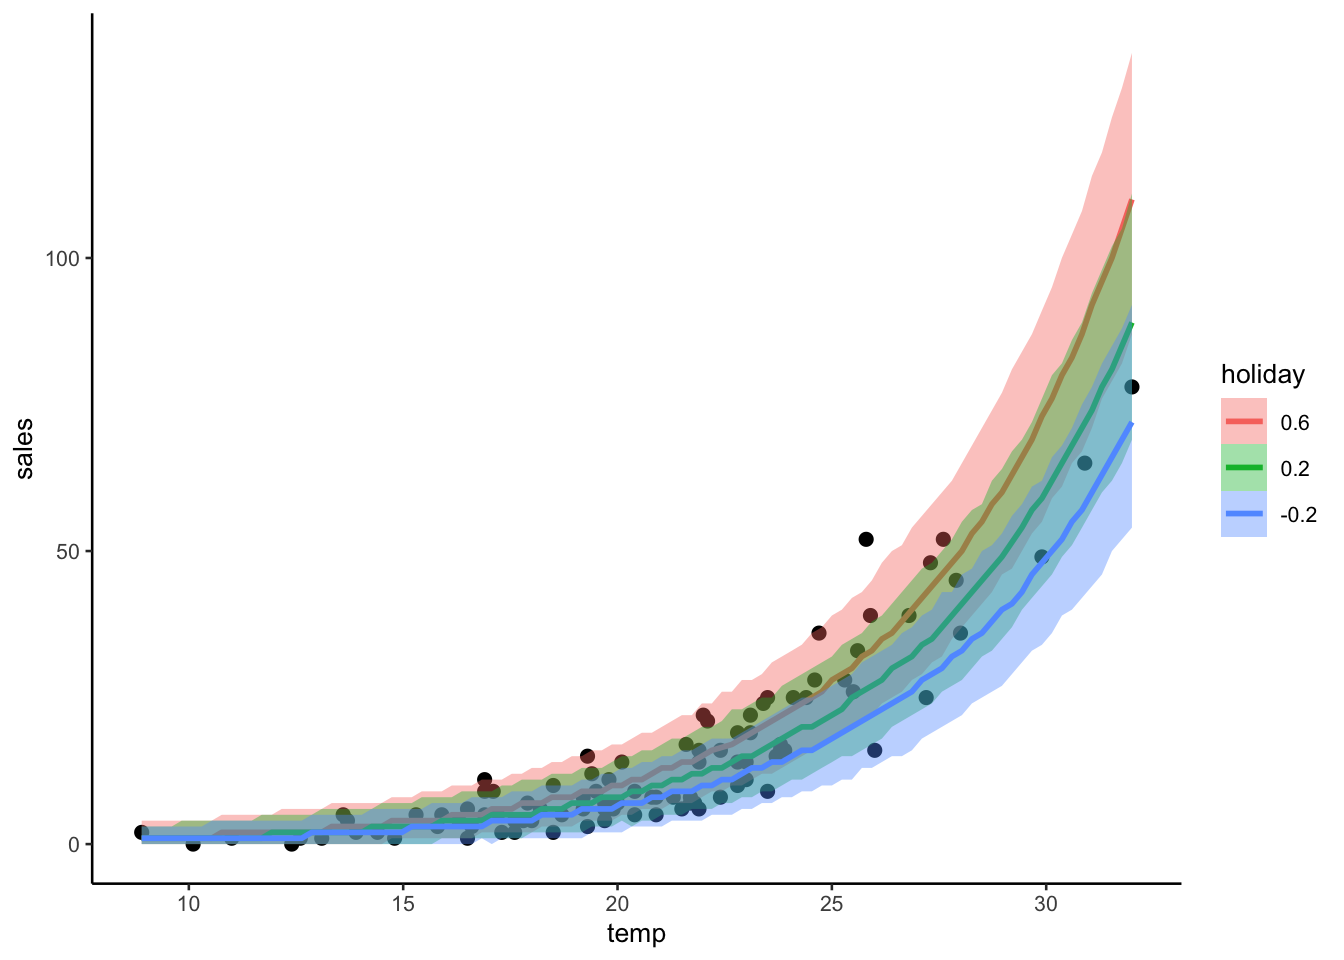
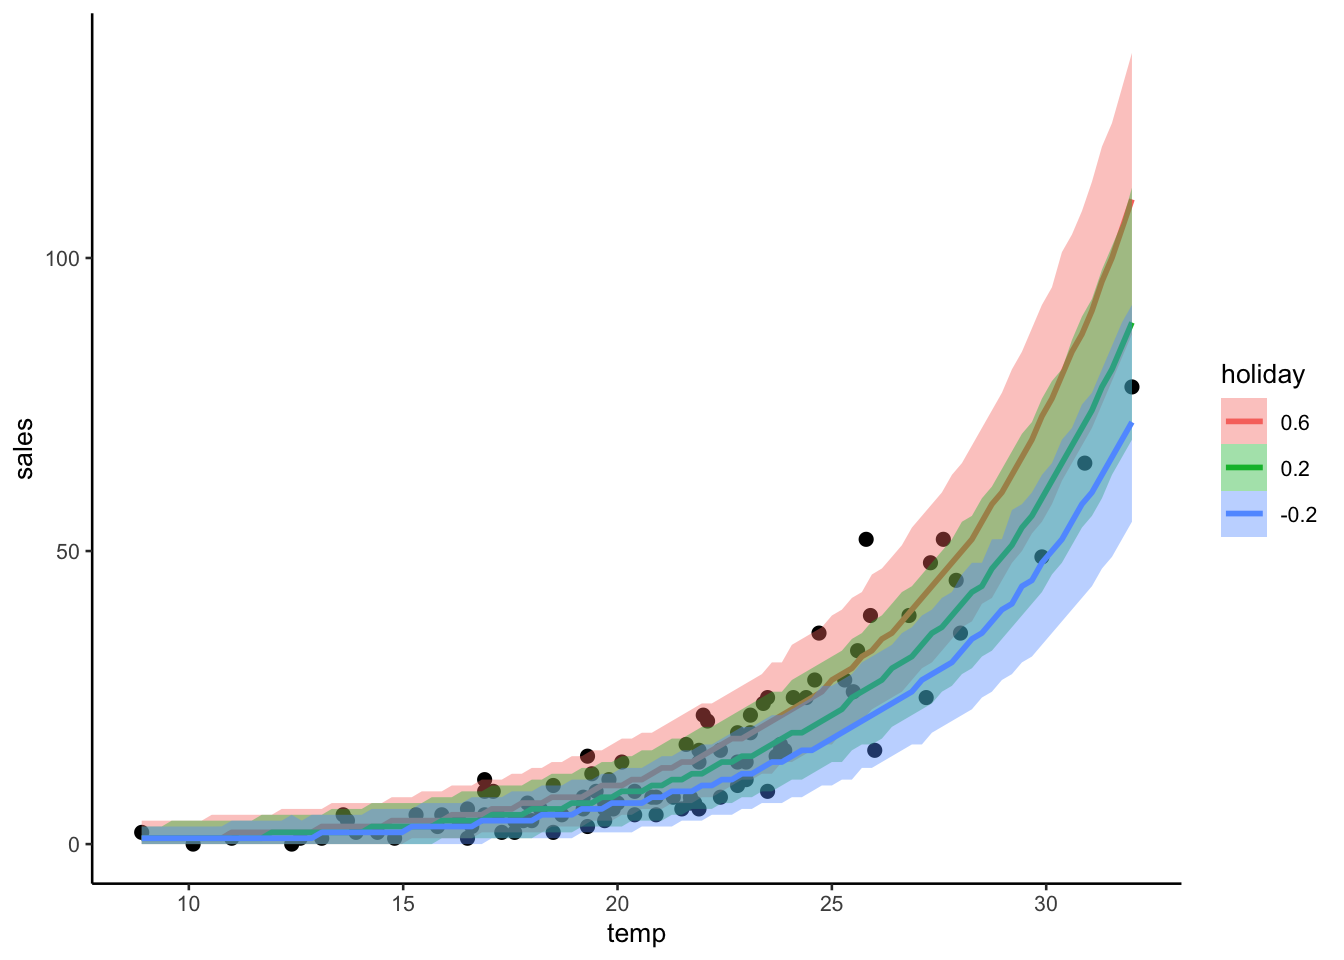
modified

diff --git a/content/post/2022-05-29-poisson-linear-model-with-brms/index.html b/content/post/2022-05-29-poisson-linear-model-with-brms/index.html
@@ -52,16 +52,16 @@ options(mc.cores=parallel::detectCores())</code></pre>
 </thead>
 <tbody>
 <tr class="odd">
-<td>Normal Linear Model</td>
-<td><span class="math inline">\(\mu_n=\beta_0+\beta_1x_{n1}+\cdots +\beta_{M}x_{nM}\)</span> <br /><span class="math inline">\(p(y_n | \beta,\sigma) \sim Normal(y_n|\mu_n,\sigma^2)\)</span><br /></td>
+<td>Poisson Linear Model</td>
+<td><span class="math inline">\(\lambda_n=exp(\beta_0+\beta_1x_{n1}+\cdots +\beta_{M}x_{nM})\)</span> <br /><span class="math inline">\(p(y_n | \beta,\sigma) \sim Poiss(y_n|\lambda_n)\)</span><br /></td>
 </tr>
 <tr class="even">
 <td>This Model</td>
-<td><span class="math inline">\(\mu_n=\beta_0+\beta_1Age_n+\beta_2Qual_n\)</span> <br /><span class="math inline">\(p(Income_n | \beta,\sigma) \sim Normal(Income_n | \mu_n,\sigma^2)\)</span><br /></td>
+<td><span class="math inline">\(\lambda_n=\beta_0+\beta_1Temp_n+\beta_2Holiday_n\)</span> <br /><span class="math inline">\(p(Sales_n | \beta) \sim Poiss(Sales_n | \lambda_n)\)</span><br /></td>
 </tr>
 <tr class="odd">
 <td>Simulation</td>
-<td><span class="math inline">\(\mu_n=300+10Age_n+200Qual_n\)</span> <br /><span class="math inline">\(Income_n \sim Normal(Income_n | \mu_n,100^2)\)</span><br /></td>
+<td><span class="math inline">\(\lambda_n=-2+0.2Temp_n+0.5Holiday_n\)</span> <br /><span class="math inline">\(Sales_n \sim Poiss(Sales_n | \lambda_n)\)</span><br /></td>
 </tr>
 </tbody>
 </table>
